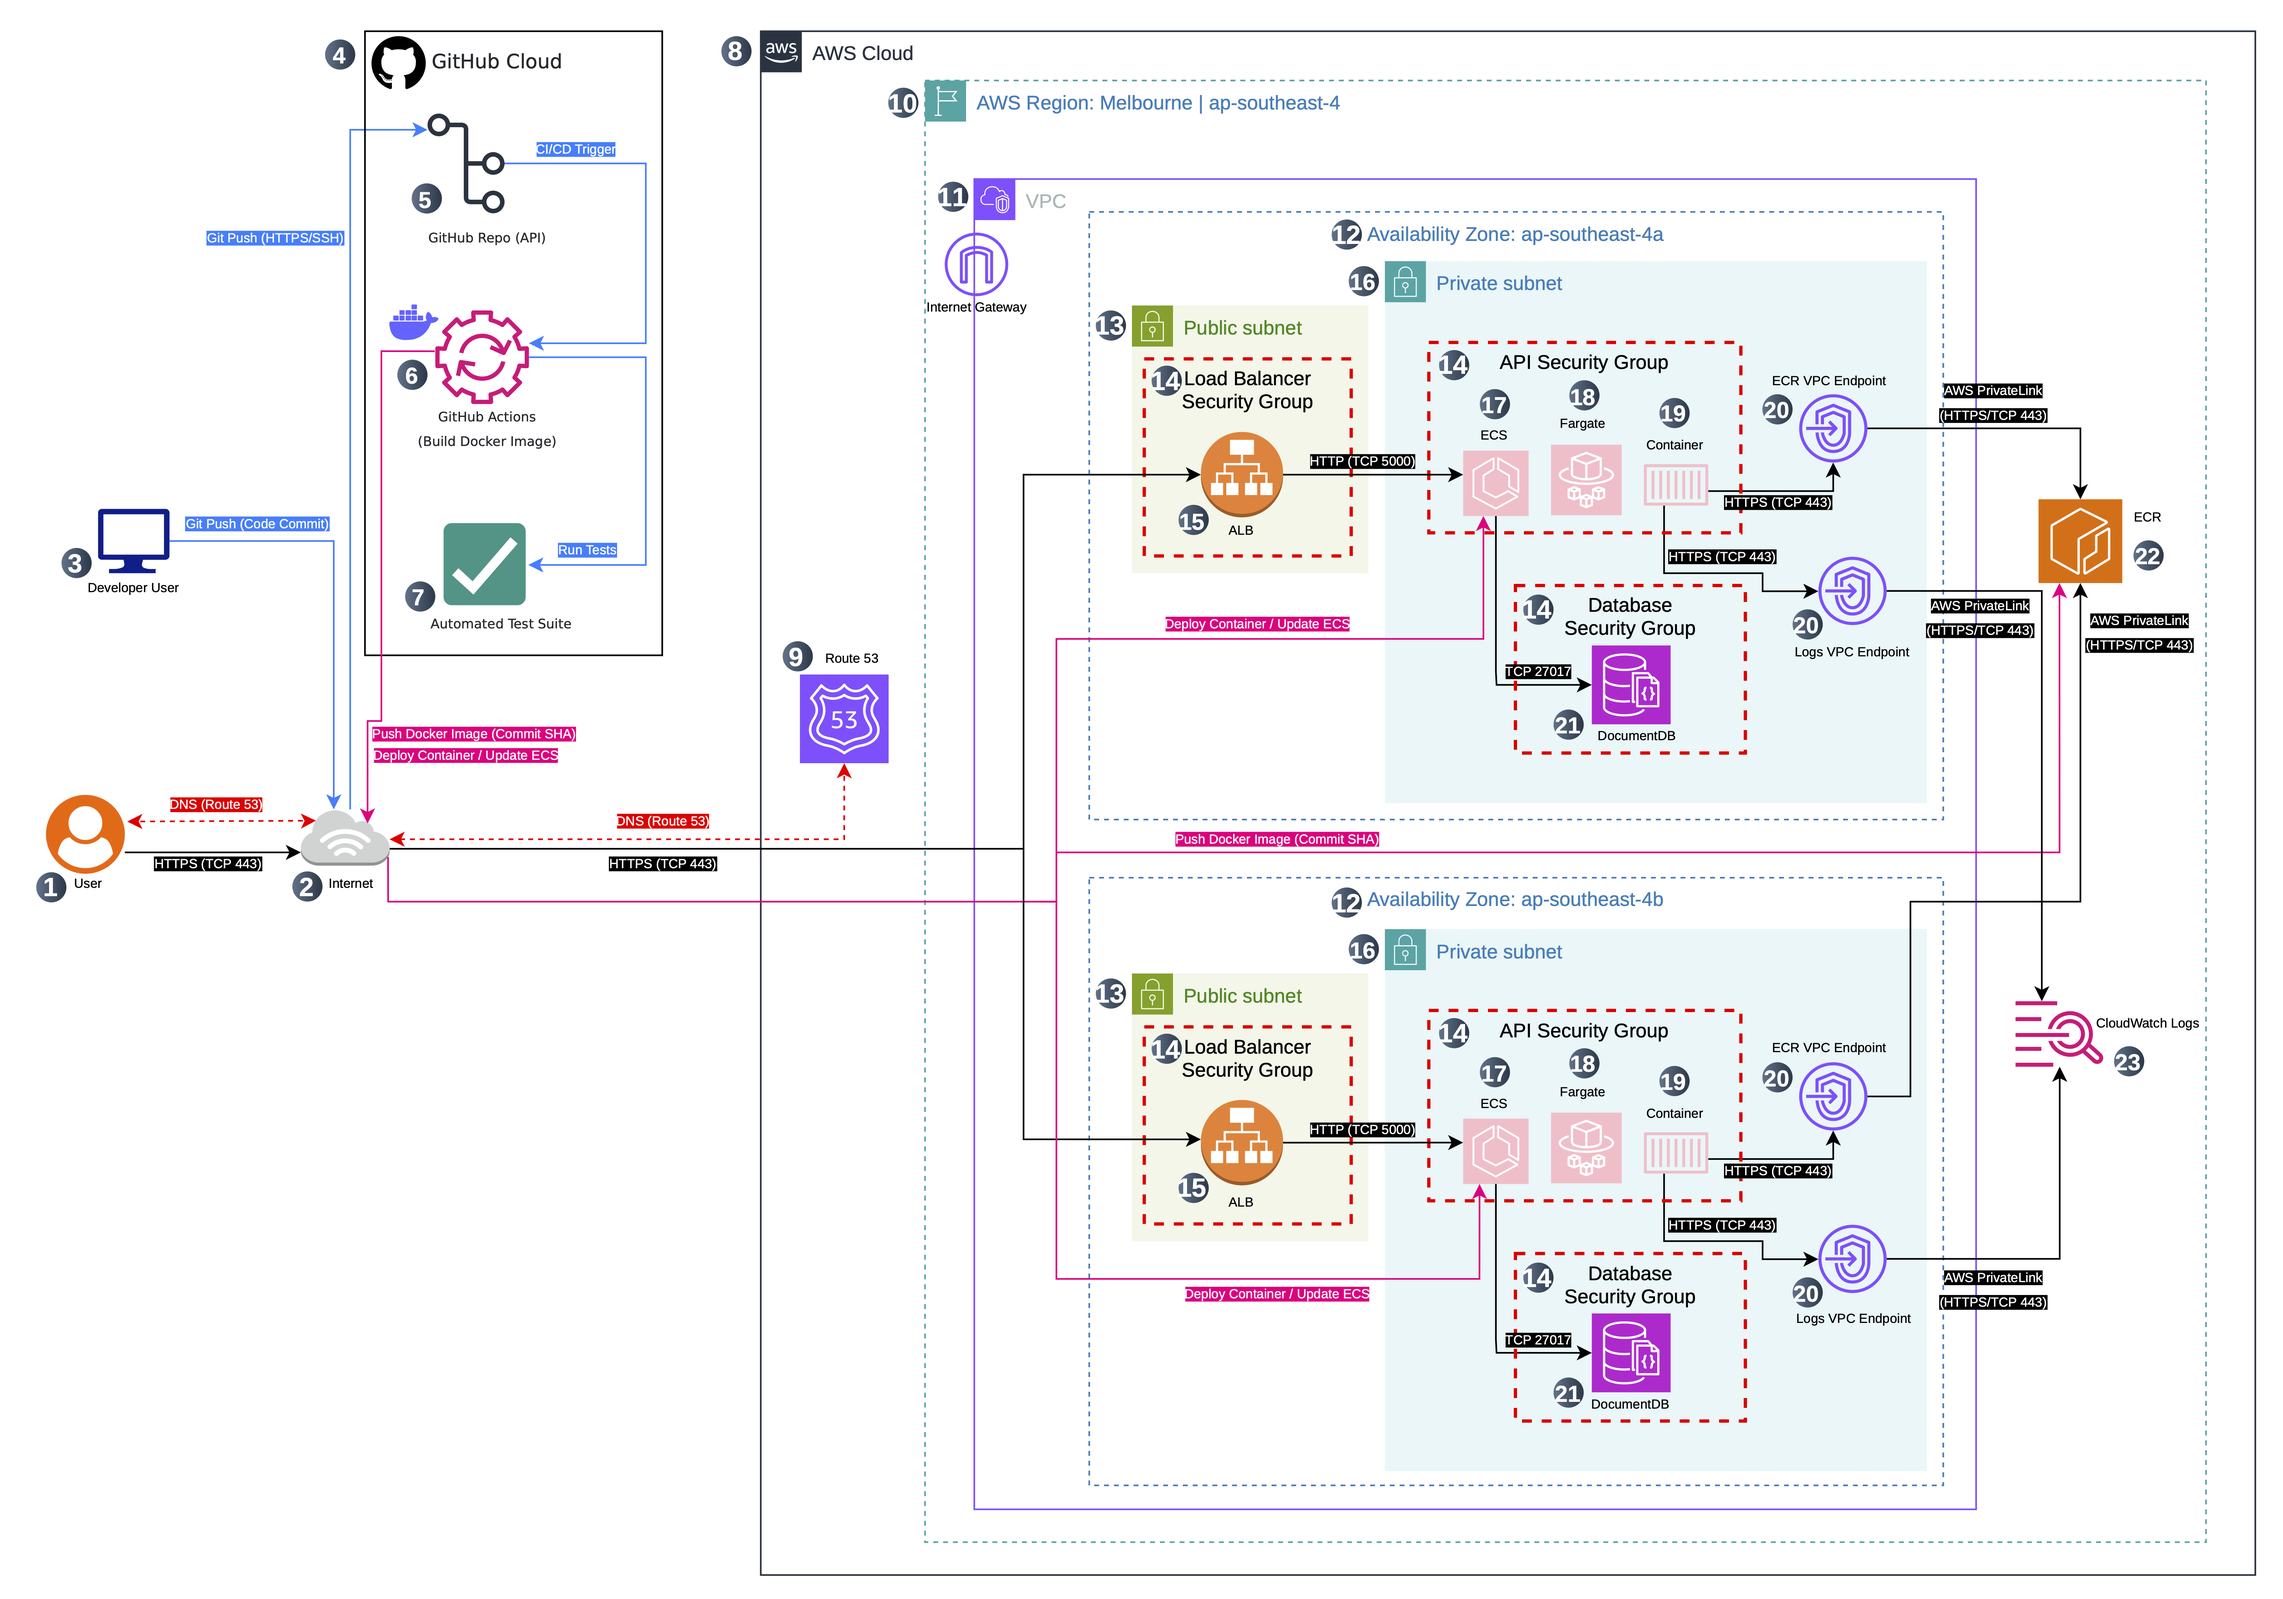
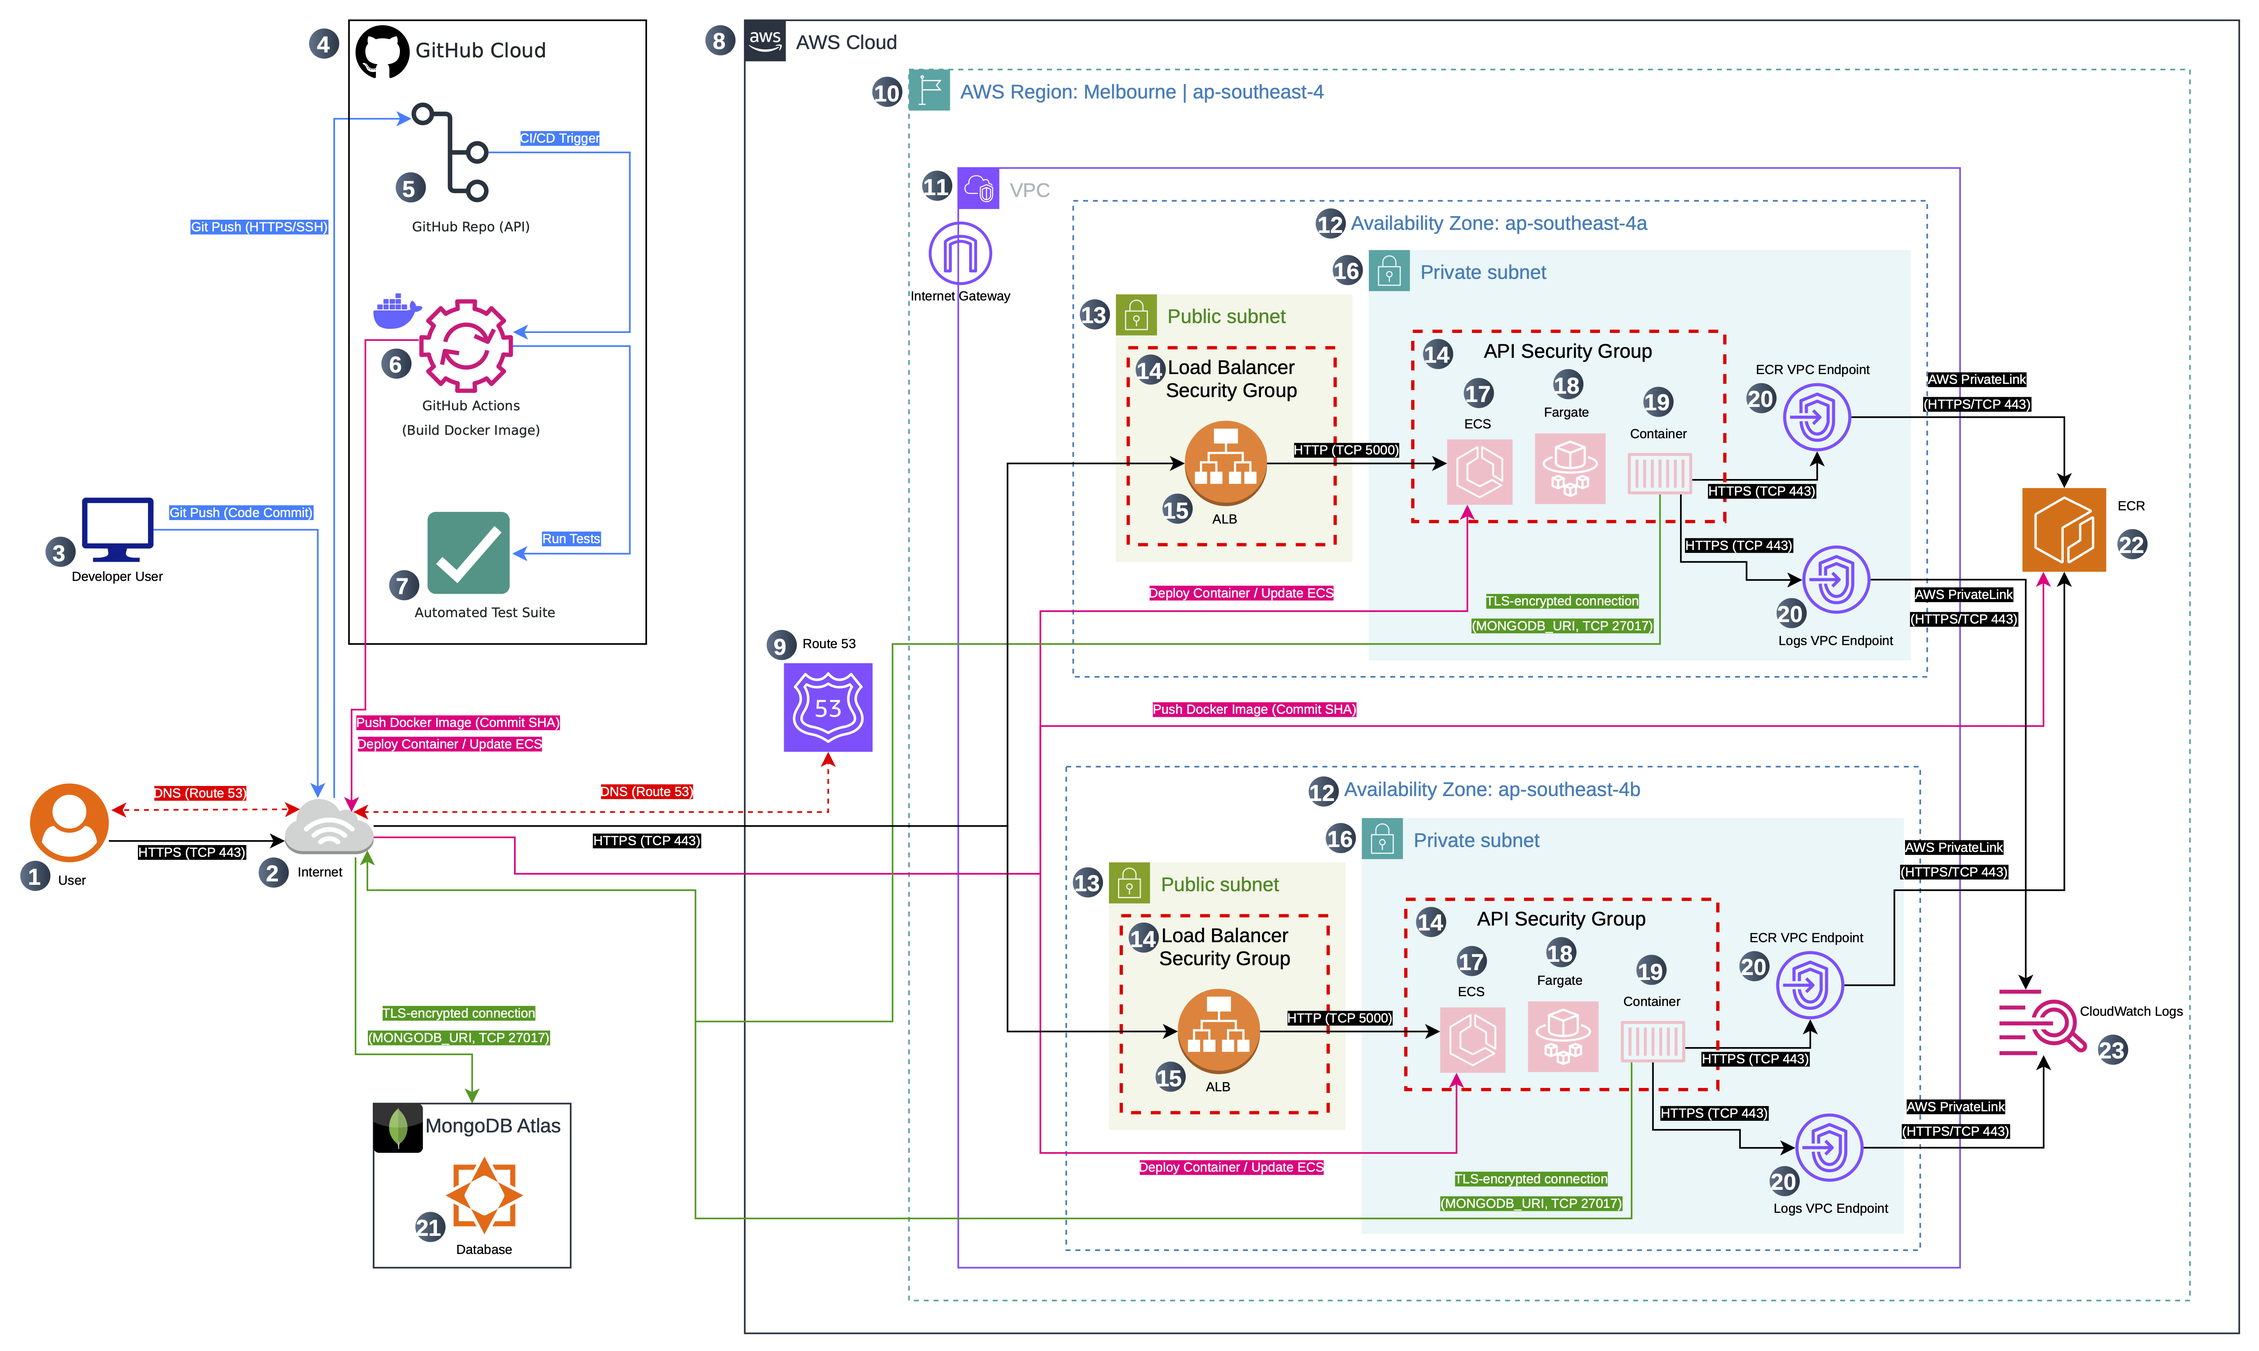
docs: update ADD screenshot - update README, AWS documentdb isn't free so changed to use mongodb atlas for database and updated docs to reflect this change.

diff --git a/README.md b/README.md
@@ -4,7 +4,7 @@ A simple multi-user, headless Content Management System (CMS) backend built with
 
 Bloggy-API provides RESTful endpoints to create, read, update, and delete posts and comments with authentication.
 
-Tech Stack: Node.js · Express · MongoDB · Mongoose · JWT
+Tech Stack: Node.js · Express · MongoDB Atlas · Mongoose · JWT
 
 <hr>
 
@@ -197,7 +197,7 @@ Both workflows require GitHub secrets for AWS and app credentials:
 | ECR_REGISTRY          | URI of the AWS ECR repository           |
 | ECS_CLUSTER           | ECS cluster name                        |
 | ECS_SERVICE           | ECS Fargate service name                |
-| MONGODB_URI           | MongoDB or DocumentDB connection string |
+| MONGODB_URI           | MongoDB Atlas connection string |
 | JWT_SECRET            | Secret key for JWT auth                 |
 
 To set these: GitHub repository Settings > Secrets and variables > Actions.
@@ -208,59 +208,21 @@ A sample file is provided as .env.example. Do not commit real secrets.
 
 ```env
 PORT=           # e.g. 7000
-MONGODB_URI=    # Your full MongoDB or DocumentDB URI
+MONGODB_URI=    # Your full MongoDB Atlas connection URI
 JWT_SECRET=     # Secret key for signing JWTs
 ```
 
 Update .env with your real values for local development and testing.
 
-### Example GitHub Actions Deploy Workflow (deploy.yml)
+### Deployment Workflow (deploy.yml)
 
-```yaml
-name: Deploy to AWS ECS
+Deployment workflow: [`.github/workflows/deploy.yml`](.github/workflows/deploy.yml).
 
-on:
-	workflow_run:
-		workflows: ["CI"]
-		types:
-			- completed
-	schedule:
-		- cron: '30 4 * * 1'
-	workflow_dispatch:
-
-jobs:
-	deploy:
-		if: ${{ github.event.workflow_run.conclusion == 'success' || github.event_name == 'schedule' || github.event_name == 'workflow_dispatch' }}
-		runs-on: ubuntu-latest
-		env:
-			AWS_REGION: ${{ secrets.AWS_REGION }}
-			ECR_REGISTRY: ${{ secrets.ECR_REGISTRY }}
-		steps:
-			- uses: actions/checkout@v4
-
-			- uses: aws-actions/configure-aws-credentials@v4
-				with:
-					aws-access-key-id: ${{ secrets.AWS_ACCESS_KEY_ID }}
-					aws-secret-access-key: ${{ secrets.AWS_SECRET_ACCESS_KEY }}
-					aws-region: ${{ secrets.AWS_REGION }}
-
-			- name: Login to Amazon ECR
-				run: |
-					aws ecr get-login-password --region $AWS_REGION | docker login --username AWS --password-stdin $ECR_REGISTRY
-
-			- name: Build, tag, and push Docker image to ECR
-				run: |
-					IMAGE="$ECR_REGISTRY/bloggy-api:${GITHUB_SHA}"
-					docker build -t $IMAGE .
-					docker push $IMAGE
-
-			- name: Deploy to ECS
-				run: |
-					aws ecs update-service \
-						--cluster ${{ secrets.ECS_CLUSTER }} \
-						--service ${{ secrets.ECS_SERVICE }} \
-						--force-new-deployment
-```
+This workflow:
+- Runs automatically after successful CI on the main branch, on manual dispatch, or on a scheduled basis.
+- Builds and tags a new Docker image for Bloggy-API.
+- Pushes the image to AWS ECR.
+- Updates the running ECS service to deploy the latest image version.
 
 ### Testing and Logs
 
@@ -313,5 +275,7 @@ GitHub Actions: natively integrated with GitHub, supports reusable workflows and
 AWS ECS Fargate with ECR: reduces infrastructure management, improves security through IAM role-based access, and supports scalable container deployments with lower operational overhead.
 
 AWS CloudWatch: integrates directly with ECS, simplifies troubleshooting during deployments, and keeps runtime logs centralised.
+
+MongoDB Atlas: Free cloud-hosted database service, secure (TLS-encrypted) connection with AWS ECS containers.
 
 This stack aligns with project goals: automated testing, persistent build and test artifacts, secure secret handling, and repeatable production deployment.
